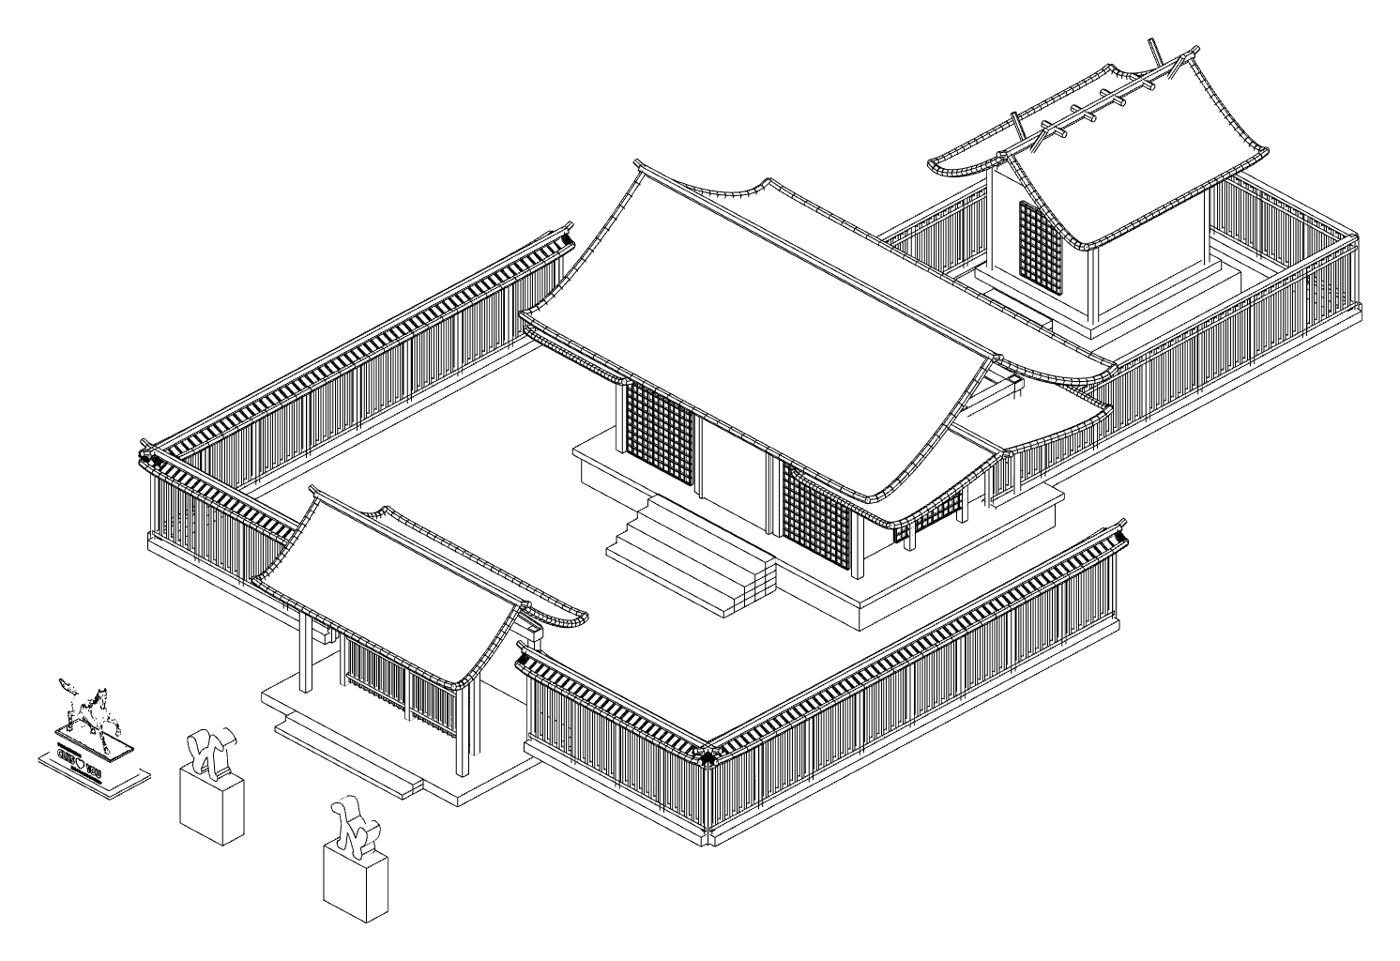
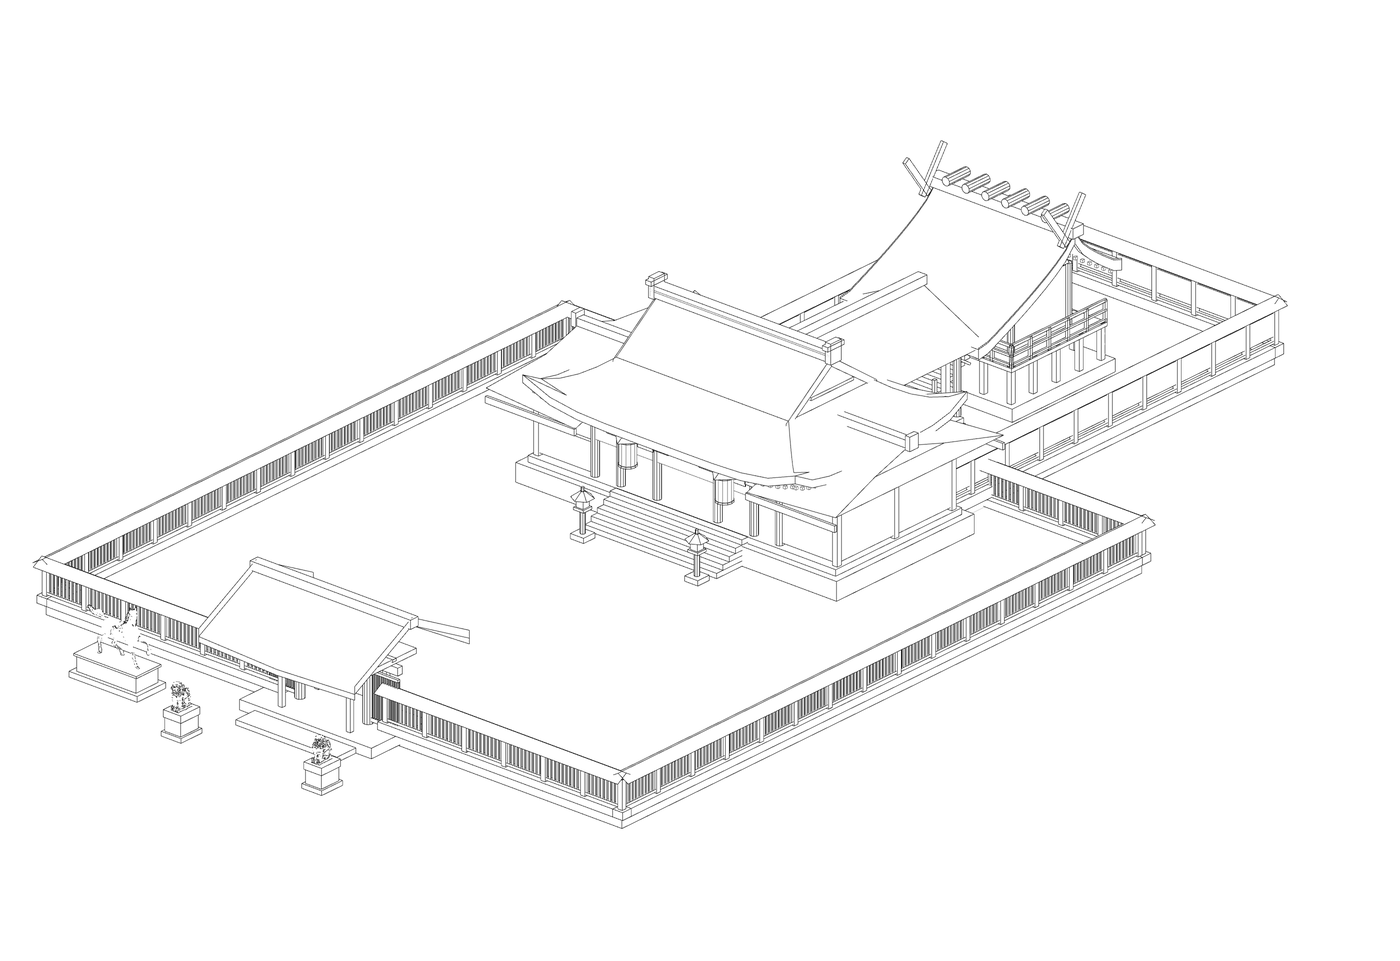
Gate photo comparison on the work page; new line drawing; gate lattice and festival dressing
Claude-Session: https://claude.ai/code/session_01NPfPdvQU847nnkndQffBJc

Changed region(s): [[0.0307, 0.0312, 0.9829, 0.9053], [0.5529, 0.2497, 0.5836, 0.281], [0.4607, 0.281, 0.4914, 0.3122]]

diff --git a/projects/zhongli-shrine/index.html b/projects/zhongli-shrine/index.html
@@ -74,6 +74,12 @@ h1 { margin: 0; font: 300 clamp(40px, 6vw, 72px)/1.1 var(--serif); letter-spacin
 .text ol.tl b { display: inline-block; min-width: 6.5em; font: 400 12px var(--mono); color: var(--ink-3); }
 .text ol.refs { font-size: 14px; color: var(--ink-2); }
 .text li { margin-bottom: .5em; }
+.pgrid { display: grid; grid-template-columns: repeat(auto-fill, minmax(150px, 1fr)); gap: 10px; margin: 14px 0 6px; }
+.pgrid figure { margin: 0; }
+.pgrid img { width: 100%; aspect-ratio: 3/2; object-fit: cover; display: block; border: 1px solid var(--rule); }
+.pgrid figcaption { font-size: 12px; color: var(--ink-3); margin-top: 4px; line-height: 1.4; }
+.pgrid .no img { outline: 3px solid #b23a2a; outline-offset: -3px; }
+.pgrid .yes img { outline: 3px solid #2f6f4f; outline-offset: -3px; }
 
 .data { margin: 0; display: grid; grid-template-columns: max-content 1fr; gap: 10px 28px; padding-top: clamp(24px, 4vw, 40px); border-top: 1px solid var(--rule); font-size: 14px; }
 .data dt { font: 400 11px/2.1 var(--mono); letter-spacing: .14em; text-transform: uppercase; color: var(--ink-3); }
@@ -102,7 +108,7 @@ h1 { margin: 0; font: 300 clamp(40px, 6vw, 72px)/1.1 var(--serif); letter-spacin
       <p class="en-title">Zhongli Shrine, Then and Now</p>
       <p class="lede">1939 年的神社，今天的中壢高中。<span>A shrine of 1939, on the ground of today’s Zhongli Senior High School.</span></p>
     </div>
-    <figure class="plan"><img src="img/axon.png" alt="Axonometric line drawing of the reconstructed shrine: the tower gate with its stone lions and bronze horse in front, the worship hall with a sweeping roof, the main sanctuary behind, all inside a roofed wooden fence"></figure>
+    <figure class="plan"><img src="img/axon.png" alt="Axonometric line drawing of the reconstructed shrine: the gate with its stone lions and bronze horse in front, the worship hall with curved irimoya roof and bracket sets, the nagare-style main sanctuary with chigi and katsuogi behind, all inside a roofed wooden fence"></figure>
   </section>
 
   <nav class="enter one" aria-label="Open the work">
@@ -185,6 +191,29 @@ h1 { margin: 0; font: 300 clamp(40px, 6vw, 72px)/1.1 var(--serif); letter-spacin
         <li><b>1991</b>The last remains of the halls go when the Taoran Pavilion is built.</li>
         <li><b>2000s</b>The first priest's widow donates the ceremony photographs to the school.</li>
       </ol>
+    </div>
+  </section>
+
+  <section class="text">
+    <div lang="zh-Hant">
+      <h2>照片比對：神門是後來增建的嗎？</h2>
+      <p>3D 復原時，把老照片逐張對到模型上（以參拜道實測寬 3.01 公尺為比例尺反求拍攝位置），發現照片分成兩組：<b>1939 年 10 月鎮座祭當天</b>拍的照片，中軸上都看不到神門；看得到神門的照片，則都沒有祭典場面。</p>
+      <div class="pgrid">
+        <figure class="no"><img src="app/photos/torii2-festival.jpg" alt="鎮座祭行列穿過第二鳥居" loading="lazy"><figcaption>鎮座祭行列：穿過第二鳥居，後方直接是石階、木柵與拜殿</figcaption></figure>
+        <figure class="no"><img src="app/photos/torii2-side.jpg" alt="第二鳥居側面" loading="lazy"><figcaption>第二鳥居側面：狛犬立在鳥居內側石階旁，不見神門</figcaption></figure>
+        <figure class="no"><img src="app/assets/photo-study/haiden-front.jpg" alt="鎮座祭拜殿正面" loading="lazy"><figcaption>拜殿正面（來賓帳篷）：反求拍攝點距石階約 29 公尺，前方無遮擋</figcaption></figure>
+        <figure class="yes"><img src="app/photos/gate.jpg" alt="神門與狛犬" loading="lazy"><figcaption>神門與狛犬，後方為拜殿（拍攝年代未知）</figcaption></figure>
+        <figure class="yes"><img src="app/photos/horse-komainu-gate.jpg" alt="銅馬合影" loading="lazy"><figcaption>銅馬合影：馬在神門左側，狛犬立在門柱前</figcaption></figure>
+        <figure class="yes"><img src="app/photos/gate-postwar.jpg" alt="神門前合影" loading="lazy"><figcaption>神門前合影：格子壁、桐紋幕（服裝看來為 1940 年代）</figcaption></figure>
+      </div>
+      <p style="font-size:12px;color:var(--ink-3)">照片：三森久子捐贈，壢中校史館藏；銅馬合影與神門前合影翻拍自校內展示。</p>
+      <p>紅框為看不到神門的照片，綠框為看得到神門的照片。鎮座祭那幾張的拍攝位置，正好落在配置圖上神門所在的位置附近；若當時已有神門，應該會擋在畫面正中央。狛犬的位置也不同：鎮座祭時在第二鳥居內側，其他照片中則在神門前。</p>
+      <p><b>暫定推論：</b>神門與屋根付玉垣的正面，是鎮座之後才增建，狛犬也隨之移到門前。3D 模型呈現的是增建後的配置。</p>
+      <p class="en" style="color:var(--ink-3)">待查證：銅馬說明牌寫此照為「昭和十四年（1939）初落成時」，與上述推論不一致，可能是說明牌年代較籠統；也還沒有找到神門興建年代的文獻。如有資料，歡迎指正。</p>
+    </div>
+    <div lang="en">
+      <h2>Was the gate added later?</h2>
+      <p class="en">Matching the old photographs to the model splits them into two groups. The photographs taken at the consecration in October 1939 show no gate on the axis: the procession walks through the second torii straight to the steps and the worship hall, and the photographer of the frontal view stood where the plan puts the gate. Every photograph that does show the gate has no ceremony in it. The working reading is that the gate and the front of the fence were added after 1939 and the stone lions moved in front of it; the model shows that later layout. One caption dates a gate photograph to 1939, so this is still open.</p>
     </div>
   </section>
 

diff --git a/projects/zhongli-shrine/app/shrine-proc.js b/projects/zhongli-shrine/app/shrine-proc.js
@@ -33,7 +33,7 @@ const OUT = TORII2_Y + 56.6;          // 第二鳥居一帶（燈籠、社號標
 export const DIMS = {
   B1: '形式依簡報照片（鋼筋水泥、洗石子）；尺寸參考第二鳥居放大推估，待查',
   B2: '依鎮座祭鳥居照片：以台階與人身高為比例，柱距約 4 公尺',
-  N: '依神門與狛犬照片反求（以拜殿尺寸為比例尺，同時解出拍攝位置）；神門到拜殿約 21 公尺',
+  N: '依神門與狛犬照片反求（以拜殿尺寸為比例尺）；格子壁、桐紋幕依戰後神門前合影。鎮座祭（1939）照片中看不到神門，推測為後來增建',
   P: '依拜殿正面照（自神門往拜殿）：以參拜道實測寬 3.01 公尺為比例，相機與尺寸聯合反求，誤差約 5 像素；深度依神門照片',
   Q: '依本殿歷史照片：流造檜皮葺、前簷延伸為向拜、千木與鰹木 6 根、高床與三面高欄；以巫女身高約 1.5 公尺為比例',
   D6: '依石燈籠照片：三層台座、竿、中台、火袋、笠、寶珠',
@@ -412,14 +412,26 @@ export function buildShrine() {
   B.begin('N').at(AX, GATE_Y, 0, LV.T2);
   B.box('stone', 0, 0, 6.0, 3.0, -0.4, 0);                // 門下石敷
   B.box('stone', 0, -2.0, 4.6, 1.0, -0.4, -0.2);          // 前台階
+  // 戰後合影照（神門前）：中央開口兩側是縱格子壁，門上掛桐紋幕與紙垂
   [-1.55, 1.55].forEach(x => {
-    B.cyl('wood', x, 0, 0.18, 0, 2.55, 12);                // 本柱
+    B.cyl('wood', x, 0, 0.19, 0, 2.55, 12);                // 本柱
     [-0.95, 0.95].forEach(u => B.box('wood', x, u, 0.18, 0.18, 0, 2.35));   // 控柱
-    B.box('dark', x + Math.sign(x) * 0.75, 0, 1.35, 0.08, 0.1, 2.25);      // 兩側門扉／板壁
+    const sx = Math.sign(x), cx = x + sx * 0.75;
+    B.box('wood', cx, 0, 1.3, 0.1, 0.1, 0.25);            // 地覆
+    B.box('wood', cx, 0, 1.3, 0.1, 1.95, 2.05);           // 內法長押
+    for (let k = -6; k <= 6; k++) B.box('wood', cx + k * 0.1, 0, 0.04, 0.05, 0.25, 1.95);   // 縱格子
+    B.box('dark', cx, 0.04, 1.3, 0.02, 0.25, 1.95);       // 格子後的暗部
   });
   B.box('wood', 0, 0, 6.0, 0.24, 2.25, 2.55);  // 冠木
-  B.box('white', 0, -0.15, 3.0, 0.03, 1.7, 2.22);  // 神紋幕（銅馬合影照：神門下掛有桐紋幕）
-  B.box('dark', 0, 0, 5.4, 2.4, 2.55, 2.8);    // 斗栱帶
+  // 神紋幕：五幅白布，第二、四幅有桐紋（戰後合影照）
+  [-1.2, -0.6, 0, 0.6, 1.2].forEach((x, i) => {
+    B.box('white', x, -0.15, 0.55, 0.03, 1.72, 2.22);
+    if (i === 1 || i === 3) B.box('dark', x, -0.17, 0.22, 0.02, 1.86, 2.08);
+  });
+  B.rod('dark', 0, -0.18, 2.24, 0.04, 3.1);               // 注連繩
+  [-1.3, -0.65, 0, 0.65, 1.3].forEach(x => B.box('white', x, -0.2, 0.08, 0.02, 1.95, 2.2));   // 紙垂
+  [-2.4, -1.2, 0, 1.2, 2.4].forEach(x => { B.box('wood', x, 0, 0.32, 0.32, 2.55, 2.68); B.box('wood', x, 0, 0.7, 0.18, 2.68, 2.78); });   // 斗栱
+  B.box('dark', 0, 0, 5.4, 2.4, 2.55, 2.75);    // 斗栱帶
   kirizuma(B, 0, 0, 7.1, 3.0, 3.0, 2.75, 4.3, true, 0.15);
   B.end();
   // 銅馬石座：兩段方形花崗岩（合影照中台座頂約在人的腰部，約 0.9 公尺），長邊順著玉垣
@@ -476,6 +488,17 @@ export function buildShrine() {
   [-4.2, 4.2].forEach(x => [0].forEach(u => B.box('wood', x, u, 0.22, 0.9, F + CH + 0.16, F + CH + 0.3)));
   B.box('wood', 0, -3.05, 8.8, 0.2, F + CH + 0.42, F + CH + 0.56);       // 桁
   irimoya(B, 0, 0, 12.4, 9.0, 4.04, 5.3, 6.9, 0.7);
+  // 鎮座祭裝飾（祭典照）：正面簷下垂掛深色幕（兩段垂弧）、紅白繩，兩側懸掛帶桐紋屋蓋的「中壢神社」燈籠
+  for (let i = 0; i < 12; i++) {
+    const x0 = -4.2 + 8.4 * i / 12, x1 = x0 + 0.7, m = (x0 + x1) / 2, sag = 0.35 * Math.sin(Math.PI * ((m + 4.2) % 4.2) / 4.2);
+    B.box('dark', m, -3.2, 0.72, 0.03, F + CH - 0.5 - sag, F + CH - 0.05);
+  }
+  [-2.2, 2.2].forEach(x => {
+    B.cyl('white', x, -3.6, 0.32, F + 1.3, F + 2.15, 12, 0.32);   // 提燈
+    B.cyl('dark', x, -3.6, 0.34, F + 2.15, F + 2.22, 12); B.cyl('dark', x, -3.6, 0.34, F + 1.23, F + 1.3, 12);
+    B.cyl('roof', x, -3.6, 0.55, F + 2.22, F + 2.55, 4, 0.08);   // 小屋蓋
+    B.box('white', x, -3.6, 0.9, 0.04, F + 2.45, F + 2.85);       // 桐紋飾板
+  });
   // 兩翼屋頂：屋脊沿 x、外端小山牆（正面照可見翼端鬼瓦），內側收在主屋頂下
   [-1, 1].forEach(s => {
     const xi = s * 3.9, xg = s * 7.5, xo = s * 7.95, ue = 4.4, he = 3.36, hm = 4.15, hr = 4.7, ug = ue * (1 - (hm - he) / (hr - he));
